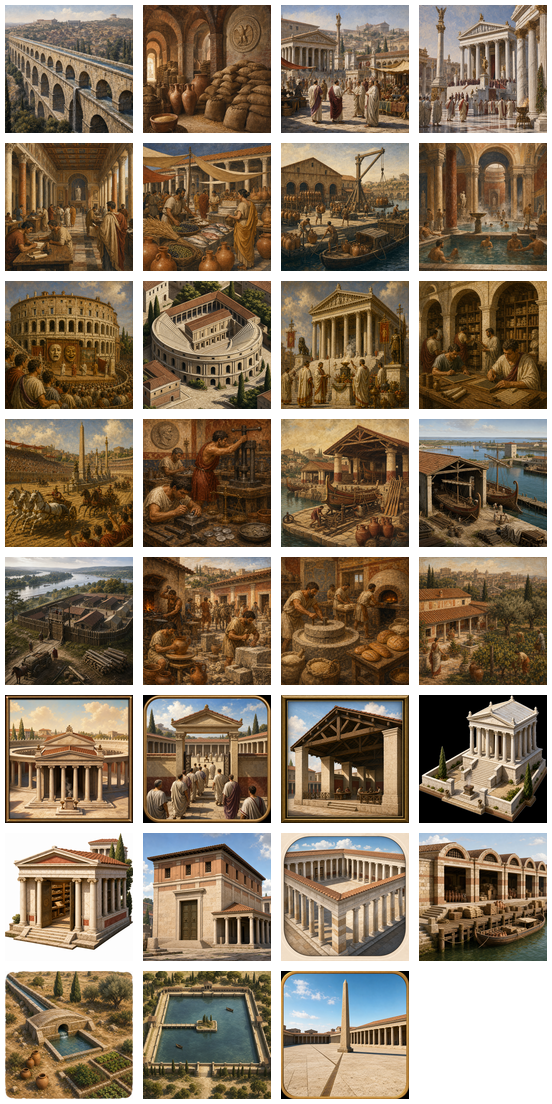
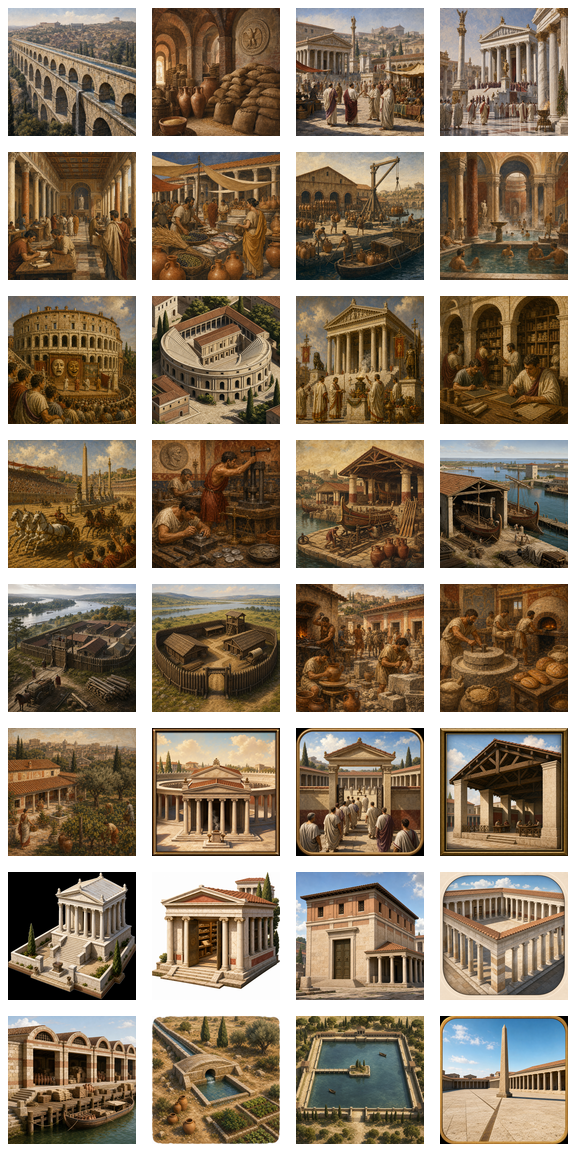
docs: record Augusta Raurica camp evidence

diff --git a/docs/world_1ad/SOURCES.md b/docs/world_1ad/SOURCES.md
@@ -356,6 +356,7 @@ a row reaches `implemented` status.
 - `SPR-ROS-GOLD`: Dumitru Ioane and Horea Bedelean, ["Ancient Gold Mining in Roșia Montana"](https://bibliotecadigital.ipb.pt/bitstream/10198/6495/7/Natural%20Heritage.pdf), in *Natural Heritage from East to West* (Springer, 2010), used for gold exploitation in the Roșia Montană/Apuseni district before the Roman conquest and its later Roman intensification. It does not establish a mine output, exact working, or direct installed-location match at AD 1.
 - `UNESCO-EPH`: UNESCO World Heritage Centre, ["Ephesus"](https://whc.unesco.org/en/list/1018/), used for Ephesus as the Roman provincial capital of Asia and as a Roman harbour city with sea channel and harbour basin. It does not identify a one-to-one match to the installed Ayasuluk location or establish a discrete AD 1 harbor-building footprint.
 - `PARC-FORUM`: Parco archeologico del Colosseo, ["The Roman Forum"](https://colosseo.it/en/area/the-roman-forum/), used for the Forum Romanum as the centre of public life and for its political, religious, and commercial buildings. Its account places Caesar's redesign and the Augustan completion before the campaign boundary; it does not establish an exact game-building effect or site plan.
+- `AR-COLONIA`: Augusta Raurica, ["Koloniegründung mit Hindernissen"](https://www.augustaraurica.ch/archaeologie/koloniegruendung), the official site record stating that Augusta Raurica's Augustan refoundation began construction after 15 BC and that the Rhine plain at Kaiseraugst held a wood-built military camp. It supports a narrow AD 1 near-site camp proxy, not a recovered ancient fort name, legion roster, stone fortress, limes line, or exact camp plan.
 - `UNESCO-FAY`: UNESCO World Heritage Centre, ["Oasis of Fayoum, hydraulic remains and ancient cultural landscapes"](https://whc.unesco.org/en/tentativelists/1830/), used for Faiyum's canal-fed irrigation landscape, its continuing Roman-period reclamation, and the prosperity of its drained and irrigated agricultural villages. It does not identify one AD 1 canal, building, output level, or a centralized hydraulic administration.
 - `UNESCO-AB-OC`: UNESCO World Heritage Centre, ["The Site of Angkor Borei and Phnom Da"](https://whc.unesco.org/en/tentativelists/6455/), reproducing Cambodia's Tentative List submission, used for Angkor Borei's long early occupation and canal connection to the Oc Eo region. It does not establish Oc Eo's exact AD 1 footprint, urban scale, political status, or a one-to-one installed-map match.
 - `FWF-NORIC`: Austrian Science Fund, ["Ferrum Noricum Hüttenberg, archaeology"](https://www.fwf.ac.at/en/research-radar/10.55776/P16069), used for the Hüttenberg district as a centre of Ferrum Noricum production from the later first century BCE into the fourth century CE. It does not establish a mine output, exact AD 1 working, or a one-to-one installed-location match.

diff --git a/docs/ASSUMPTIONS.md b/docs/ASSUMPTIONS.md
@@ -348,6 +348,23 @@ weighed: `MZ-MOG`; `MZ-DRUSUS` in `docs/m5/M5_ROMAN_CIVIC_BUILDINGS.md`.
 [secure founding chronology and site association; contested installed-location
 representation and quantitative force scale]
 
+## 2026-07-23 - Augusta Raurica military camp is a Basel near-site proxy
+
+Augusta Raurica's own archaeology record says that city construction began
+after its Augustan refoundation in 15 BC and that a wood-built military camp
+stood at Kaiseraugst on the Rhine plain. The installed map has neither Augst
+nor Kaiseraugst, while its nearby `basel` point is Roman-controlled in the
+AD 1 ownership ledger. The project seeds one deliberately small named camp at
+that point as a near-site proxy. It uses a functional display name, not a
+claimed ancient fort title, and does not assert a legion, stone fortification,
+limes system, exact plan, or exact local geography; `basel` also keeps its own
+map name rather than being falsely relabelled Augusta Raurica.
+
+Source: Augusta Raurica, ["Koloniegründung mit Hindernissen"](https://www.augustaraurica.ch/archaeologie/koloniegruendung), and the source-labelled `basel` AD 1 ownership row in `docs/world_1ad/ownership_resolved.csv`.
+
+[secure for the post-15-BC wood-built camp context and Roman control; contested
+for the near-site engine placement and functional building mapping]
+
 ## 2026-07-21 - Vyatka is an early Permic reconstruction, not a modern ethnicity
 
 The thirty-fourth selector batch introduces a Permic proxy for the installed

diff --git a/docs/DECISIONS.md b/docs/DECISIONS.md
@@ -2266,6 +2266,21 @@ behavior, then uses substantially smaller garrison/unrest effects. This models
 a timber-and-earth camp without importing later stone fortification, an AD 1
 unit roster, a fixed legion count, or a complete German frontier map.
 
+## 2026-07-23 - Augusta Raurica camp uses a bounded Basel near-site proxy
+
+The official Augusta Raurica record supplies an unusually narrow second
+frontier exception: its post-15-BC Augustan refoundation includes a wood-built
+military camp at Kaiseraugst. The installed map has no Augst or Kaiseraugst
+location, but `basel` is an AD 1 Roman-controlled location. The named-building
+ledger therefore permits that one reviewed near-site, using exactly the same
+low non-propagating stockade contract already proven for Mogontiacum.
+
+The special's display name is deliberately functional rather than an asserted
+recovered Roman fort title. It adds no legion identifier, garrison total, stone
+fortress, limes line, or camp plan. `basel` itself is not dynamically renamed:
+the city-point proxy is sufficient for a bounded building seed but is not a
+license to replace the distinct historical place name with Augusta Raurica.
+
 ## 2026-07-22 - M8 uses a checked per-advance art migration
 
 The former five age-group advance illustrations remain available only as a

diff --git a/docs/m5/M5_ROMAN_CIVIC_BUILDINGS.md b/docs/m5/M5_ROMAN_CIVIC_BUILDINGS.md
@@ -106,3 +106,20 @@ nearby Classe lagoon, ship total, naval order of battle, or supply volume.
 and modest garrison/unrest modifiers. It is expressly timber-and-earth rather
 than a later stone fortress, and it does not encode a legion count, unit roster,
 frontier line, or stone-wall reconstruction.
+
+## Augusta Raurica camp source and boundary
+
+`AR-COLONIA` is Augusta Raurica's official
+[colony-foundation record](https://www.augustaraurica.ch/archaeologie/koloniegruendung).
+It states that, after a refoundation, construction of Augusta Raurica began
+under Augustus after 15 BC; it also identifies a wood-built military camp on
+the Rhine plain at Kaiseraugst. The installed map contains no Augst or
+Kaiseraugst point, but its `basel` point is securely Roman-controlled in the
+AD 1 ownership ledger.
+
+`Augusta Raurica Camp` therefore uses the same locally verified low
+`defense_category`/`stockade_employment`/`small_fort_building` contract as the
+Mogontiacum exception, with smaller garrison and unrest effects. It is a
+bounded near-site timber-and-earth camp proxy only: the display name is a
+functional identifier rather than a recovered Roman fort title, and it claims
+no legion, stone fortress, limes line, or complete camp plan.

diff --git a/docs/PROGRESS.md b/docs/PROGRESS.md
@@ -1,5 +1,21 @@
 # Progress
 
+## 2026-07-23 - Augusta Raurica frontier-camp building
+
+- Added the 32nd named Roman special: a restrained `basel` near-site proxy for
+  the wood-built military camp at Kaiseraugst, where the Augusta Raurica
+  refoundation began after 15 BC. It uses the locally proven low,
+  non-propagating timber-camp contract and a direct 128px icon.
+- Kept the evidence boundary explicit: no reconstructed fort title, legion,
+  garrison total, stone fortress, limes line, exact plan, or Basel map-name
+  replacement. The refreshed 32-icon building contact sheet was reviewed.
+- `gmake validate` passed with 32 named Roman specials and 172 M5/M7 start
+  buildings. The bounded vanilla/enabled `gmake smoke` pair reached the menu
+  in both runs and found zero new mod-only error-log lines.
+
+Next: continue the direct-art migration and source-led Roman economic/building
+frontier.
+
 ## 2026-07-23 - Direct Kushite, steppe, and Korean privilege icons
 
 - Added dedicated 64x90 icons for a Kushite court household, early steppe clan

diff --git a/docs/m12/ANACHRONISM_AUDIT.md b/docs/m12/ANACHRONISM_AUDIT.md
@@ -37,6 +37,6 @@ the audit.
 
 ## Result
 
-19 English files and 5639 quoted player-facing entries contain
+19 English files and 5642 quoted player-facing entries contain
 zero prohibited terms. The check is pinned in `make validate`; a newly authored
 anachronism fails before it can reach a smoke run.
